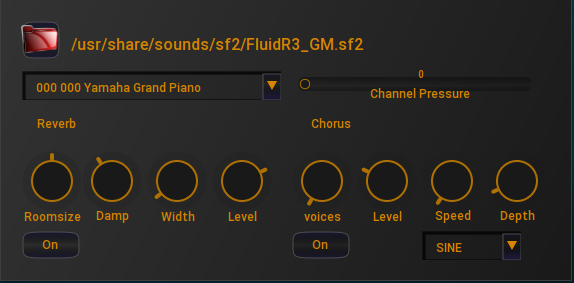
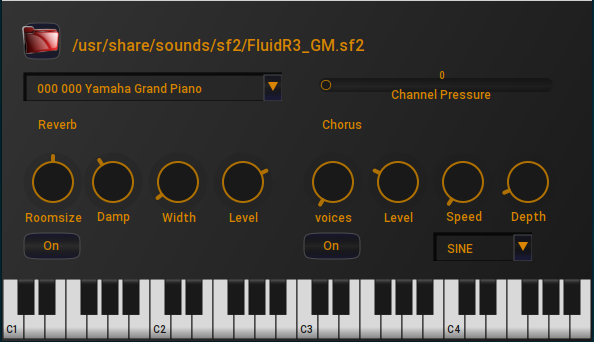
Update libxputty, add virtual MIDI keyboard

diff --git a/Fluida/fluida_ui.c b/Fluida/fluida_ui.c
@@ -35,7 +35,7 @@
 -----------------------------------------------------------------------
 ----------------------------------------------------------------------*/
 
-#define CONTROLS 12
+#define CONTROLS 13
 
 /*---------------------------------------------------------------------
 -----------------------------------------------------------------------
@@ -97,8 +97,8 @@ void plugin_value_changed(X11_UI *ui, Widget_t *w, PortIndex index) {
 }
 
 void plugin_set_window_size(int *w,int *h,const char * plugin_uri) {
-    (*w) = 570; //set initial widht of main window
-    (*h) = 280; //set initial heigth of main window
+    (*w) = 590; //set initial widht of main window
+    (*h) = 340; //set initial heigth of main window
 }
 
 const char* plugin_set_name() {
@@ -155,7 +155,7 @@ void rebuild_instrument_list(X11_UI *ui) {
     if (!(int)ps->n_elem) {
         combobox_add_entry(ps->combo,"None");
     }
-
+    combobox_set_menu_size(ps->combo, 12);
     combobox_set_active_entry(ps->combo, 0);
     expose_widget(ps->combo);
 }
@@ -258,11 +258,46 @@ void send_controller_message(Widget_t *w, const LV2_URID control) {
                        ps->uris.atom_eventTransfer, msg);
 }
 
+static void send_midi_data(Widget_t *w, const int *key, const int control) {
+    X11_UI *ui = (X11_UI*) w->parent_struct;
+    X11_UI_Private_t *ps = (X11_UI_Private_t*)ui->private_ptr;
+    MidiKeyboard *keys = (MidiKeyboard*)ui->widget[12]->private_struct;
+    uint8_t obj_buf[OBJ_BUF_SIZE];
+    uint8_t vec[3];
+    vec[0] = (int)control;
+    vec[0] |= keys->channel;
+    vec[1] = (*key);
+    vec[2] = keys->velocity;
+    lv2_atom_forge_set_buffer(&ps->forge, obj_buf, OBJ_BUF_SIZE);
+
+    lv2_atom_forge_frame_time(&ps->forge,0);
+    LV2_Atom* msg = (LV2_Atom*)lv2_atom_forge_raw(&ps->forge,&ps->uris.midiatom,sizeof(LV2_Atom));
+    lv2_atom_forge_raw(&ps->forge,vec, sizeof(vec));
+    lv2_atom_forge_pad(&ps->forge,sizeof(vec)+sizeof(LV2_Atom));
+
+    ui->write_function(ui->controller, 2, lv2_atom_total_size(msg),
+                       ps->uris.atom_eventTransfer, msg);
+
+}
+
 // static
 void controller_callback(void *w_, void* user_data) {
     Widget_t *w = (Widget_t*)w_;
     const LV2_URID urid = *(const LV2_URID*)w->parent_struct;
     send_controller_message(w, urid);
+}
+
+static void xkey_press(void *w_, void *key_, void *user_data) {
+        Widget_t *w = (Widget_t*)w_;
+        X11_UI *ui = (X11_UI*) w->parent_struct;
+        ui->widget[12]->func.key_press_callback(ui->widget[12], key_, user_data);
+
+}
+static void xkey_release(void *w_, void *key_, void *user_data) {
+        Widget_t *w = (Widget_t*)w_;
+        X11_UI *ui = (X11_UI*) w->parent_struct;
+        ui->widget[12]->func.key_release_callback(ui->widget[12], key_, user_data);
+
 }
 
 // static
@@ -296,6 +331,12 @@ void plugin_create_controller_widgets(X11_UI *ui, const char * plugin_uri) {
     lv2_atom_forge_init(&ps->forge, ui->map);
     widget_set_dnd_aware(ui->win);
 
+    XSelectInput(ui->win->app->dpy, ui->win->widget,StructureNotifyMask|ExposureMask|KeyPressMask 
+        |EnterWindowMask|LeaveWindowMask|ButtonReleaseMask|KeyReleaseMask
+        |ButtonPressMask|Button1MotionMask|PointerMotionMask);
+    ui->win->flags |= NO_AUTOREPEAT | NO_PROPAGATE;
+    ui->win->func.key_press_callback = xkey_press;
+    ui->win->func.key_release_callback = xkey_release;
     ui->win->func.expose_callback = draw_ui;
     ui->win->func.dnd_notify_callback = dnd_load_response;
     const FluidaLV2URIs* uris = &ps->uris;
@@ -349,45 +390,45 @@ void plugin_create_controller_widgets(X11_UI *ui, const char * plugin_uri) {
     ps->control[4]->func.value_changed_callback = controller_callback;
 
     // chorus
-    tmp = add_label(ui->win,_("Chorus"),290,110,80,20);
+    tmp = add_label(ui->win,_("Chorus"),300,110,80,20);
     tmp->flags |= NO_AUTOREPEAT | NO_PROPAGATE;
 
-    ps->control[5] = add_toggle_button(ui->win, _("On"), 290,  230, 60, 30);
+    ps->control[5] = add_toggle_button(ui->win, _("On"), 300,  230, 60, 30);
     ps->control[5]->flags |= NO_AUTOREPEAT | NO_PROPAGATE;
     ps->control[5]->parent_struct = (void*)&uris->fluida_chorus_on;
     ps->control[5]->data = 3;
     ps->control[5]->func.adj_callback = set_on_off_label;
     ps->control[5]->func.value_changed_callback = controller_callback;
 
-    ps->control[6] = add_knob(ui->win, _("voices"), 290, 140, 65, 85);
+    ps->control[6] = add_knob(ui->win, _("voices"), 300, 140, 65, 85);
     ps->control[6]->flags |= NO_AUTOREPEAT | NO_PROPAGATE;
     ps->control[6]->parent_struct = (void*)&uris->fluida_chorus_voices;
     ps->control[6]->data = 2;
     set_adjustment(ps->control[6]->adj, 3.0, 3.0, 0.0, 99.0, 1.0, CL_CONTINUOS);
     ps->control[6]->func.value_changed_callback = controller_callback;
 
-    ps->control[7] = add_knob(ui->win, _("Level"), 355, 140, 65, 85);
+    ps->control[7] = add_knob(ui->win, _("Level"), 365, 140, 65, 85);
     ps->control[7]->flags |= NO_AUTOREPEAT | NO_PROPAGATE;
     ps->control[7]->parent_struct = (void*)&uris->fluida_chorus_lev;
     ps->control[7]->data = 1;
     set_adjustment(ps->control[7]->adj, 3.0, 3.0, 0.0, 10.0, 0.1, CL_CONTINUOS);
     ps->control[7]->func.value_changed_callback = controller_callback;
 
-    ps->control[8] = add_knob(ui->win, _("Speed"), 420, 140, 65, 85);
+    ps->control[8] = add_knob(ui->win, _("Speed"), 430, 140, 65, 85);
     ps->control[8]->flags |= NO_AUTOREPEAT | NO_PROPAGATE;
     ps->control[8]->parent_struct = (void*)&uris->fluida_chorus_speed;
     ps->control[8]->data = 1;
     set_adjustment(ps->control[8]->adj, 0.3, 0.3, 0.1, 5.0, 0.05, CL_CONTINUOS);
     ps->control[8]->func.value_changed_callback = controller_callback;
 
-    ps->control[9] = add_knob(ui->win, _("Depth"), 485, 140, 65, 85);
+    ps->control[9] = add_knob(ui->win, _("Depth"), 495, 140, 65, 85);
     ps->control[9]->flags |= NO_AUTOREPEAT | NO_PROPAGATE;
     ps->control[9]->parent_struct = (void*)&uris->fluida_chorus_depth;
     ps->control[9]->data = 1;
     set_adjustment(ps->control[9]->adj, 3.0, 3.0, 0.0, 21.0, 0.1, CL_CONTINUOS);
     ps->control[9]->func.value_changed_callback = controller_callback;
 
-    ps->control[10] = add_combobox(ui->win, _("MODE"), 420, 230, 100, 30);
+    ps->control[10] = add_combobox(ui->win, _("MODE"), 430, 230, 100, 30);
     ps->control[10]->parent_struct = (void*)&uris->fluida_chorus_type;
     ps->control[9]->data = 2;
     combobox_add_entry(ps->control[10], _("SINE"));
@@ -396,12 +437,18 @@ void plugin_create_controller_widgets(X11_UI *ui, const char * plugin_uri) {
     ps->control[10]->flags |= NO_AUTOREPEAT | NO_PROPAGATE;
     ps->control[10]->func.value_changed_callback = controller_callback;
 
-    ps->control[11] = add_hslider(ui->win, _("Channel Pressure"), 300, 70, 260, 30);
+    ps->control[11] = add_hslider(ui->win, _("Channel Pressure"), 310, 70, 260, 30);
     set_adjustment(ps->control[11]->adj, 0.0, 0.0, 0.0, 127.0, 1.0, CL_CONTINUOS);
     ps->control[11]->flags |= NO_AUTOREPEAT | NO_PROPAGATE;
     ps->control[11]->parent_struct = (void*)&uris->fluida_channel_pressure;
     ps->control[11]->data = 2;
     ps->control[11]->func.value_changed_callback = controller_callback;
+
+    ui->widget[12] = add_midi_keyboard (ui->win, "Midikeyboard", 1,  278, 588, 60);
+    set_widget_color(ui->widget[12], 0, 0, 0.85, 0.85, 0.85, 1.0);
+    MidiKeyboard *keys = (MidiKeyboard*)ui->widget[12]->private_struct;
+    ui->widget[12]->parent_struct = (void*)ui;
+    keys->mk_send_note = send_midi_data;
 
 }
 

diff --git a/Fluida/fluida.h b/Fluida/fluida.h
@@ -59,6 +59,8 @@
 
 
 typedef struct {
+    LV2_URID midi_MidiEvent;
+    LV2_Atom midiatom; 
     LV2_URID atom_Object;
     LV2_URID atom_Int;
     LV2_URID atom_Float;
@@ -126,6 +128,9 @@ static inline void map_fluidalv2_uris(LV2_URID_Map* map, FluidaLV2URIs* uris) {
     uris->patch_Set               = map->map(map->handle, LV2_PATCH__Set);
     uris->patch_property          = map->map(map->handle, LV2_PATCH__property);
     uris->patch_value             = map->map(map->handle, LV2_PATCH__value);
+    uris->midi_MidiEvent          = map->map(map->handle, LV2_MIDI__MidiEvent);
+    uris->midiatom.type           = uris->midi_MidiEvent;
+    uris->midiatom.size           = 3;
 }
 
 // write

diff --git a/README.md b/README.md
@@ -5,7 +5,7 @@ Fluidsynth as LV2 plugin
 ![Fluida](https://raw.githubusercontent.com/brummer10/Fluida.lv2/master/Fluida.png)
 
 
-## Dependencys
+## Dependencies
 
 - libcairo2-dev
 - libx11-dev
